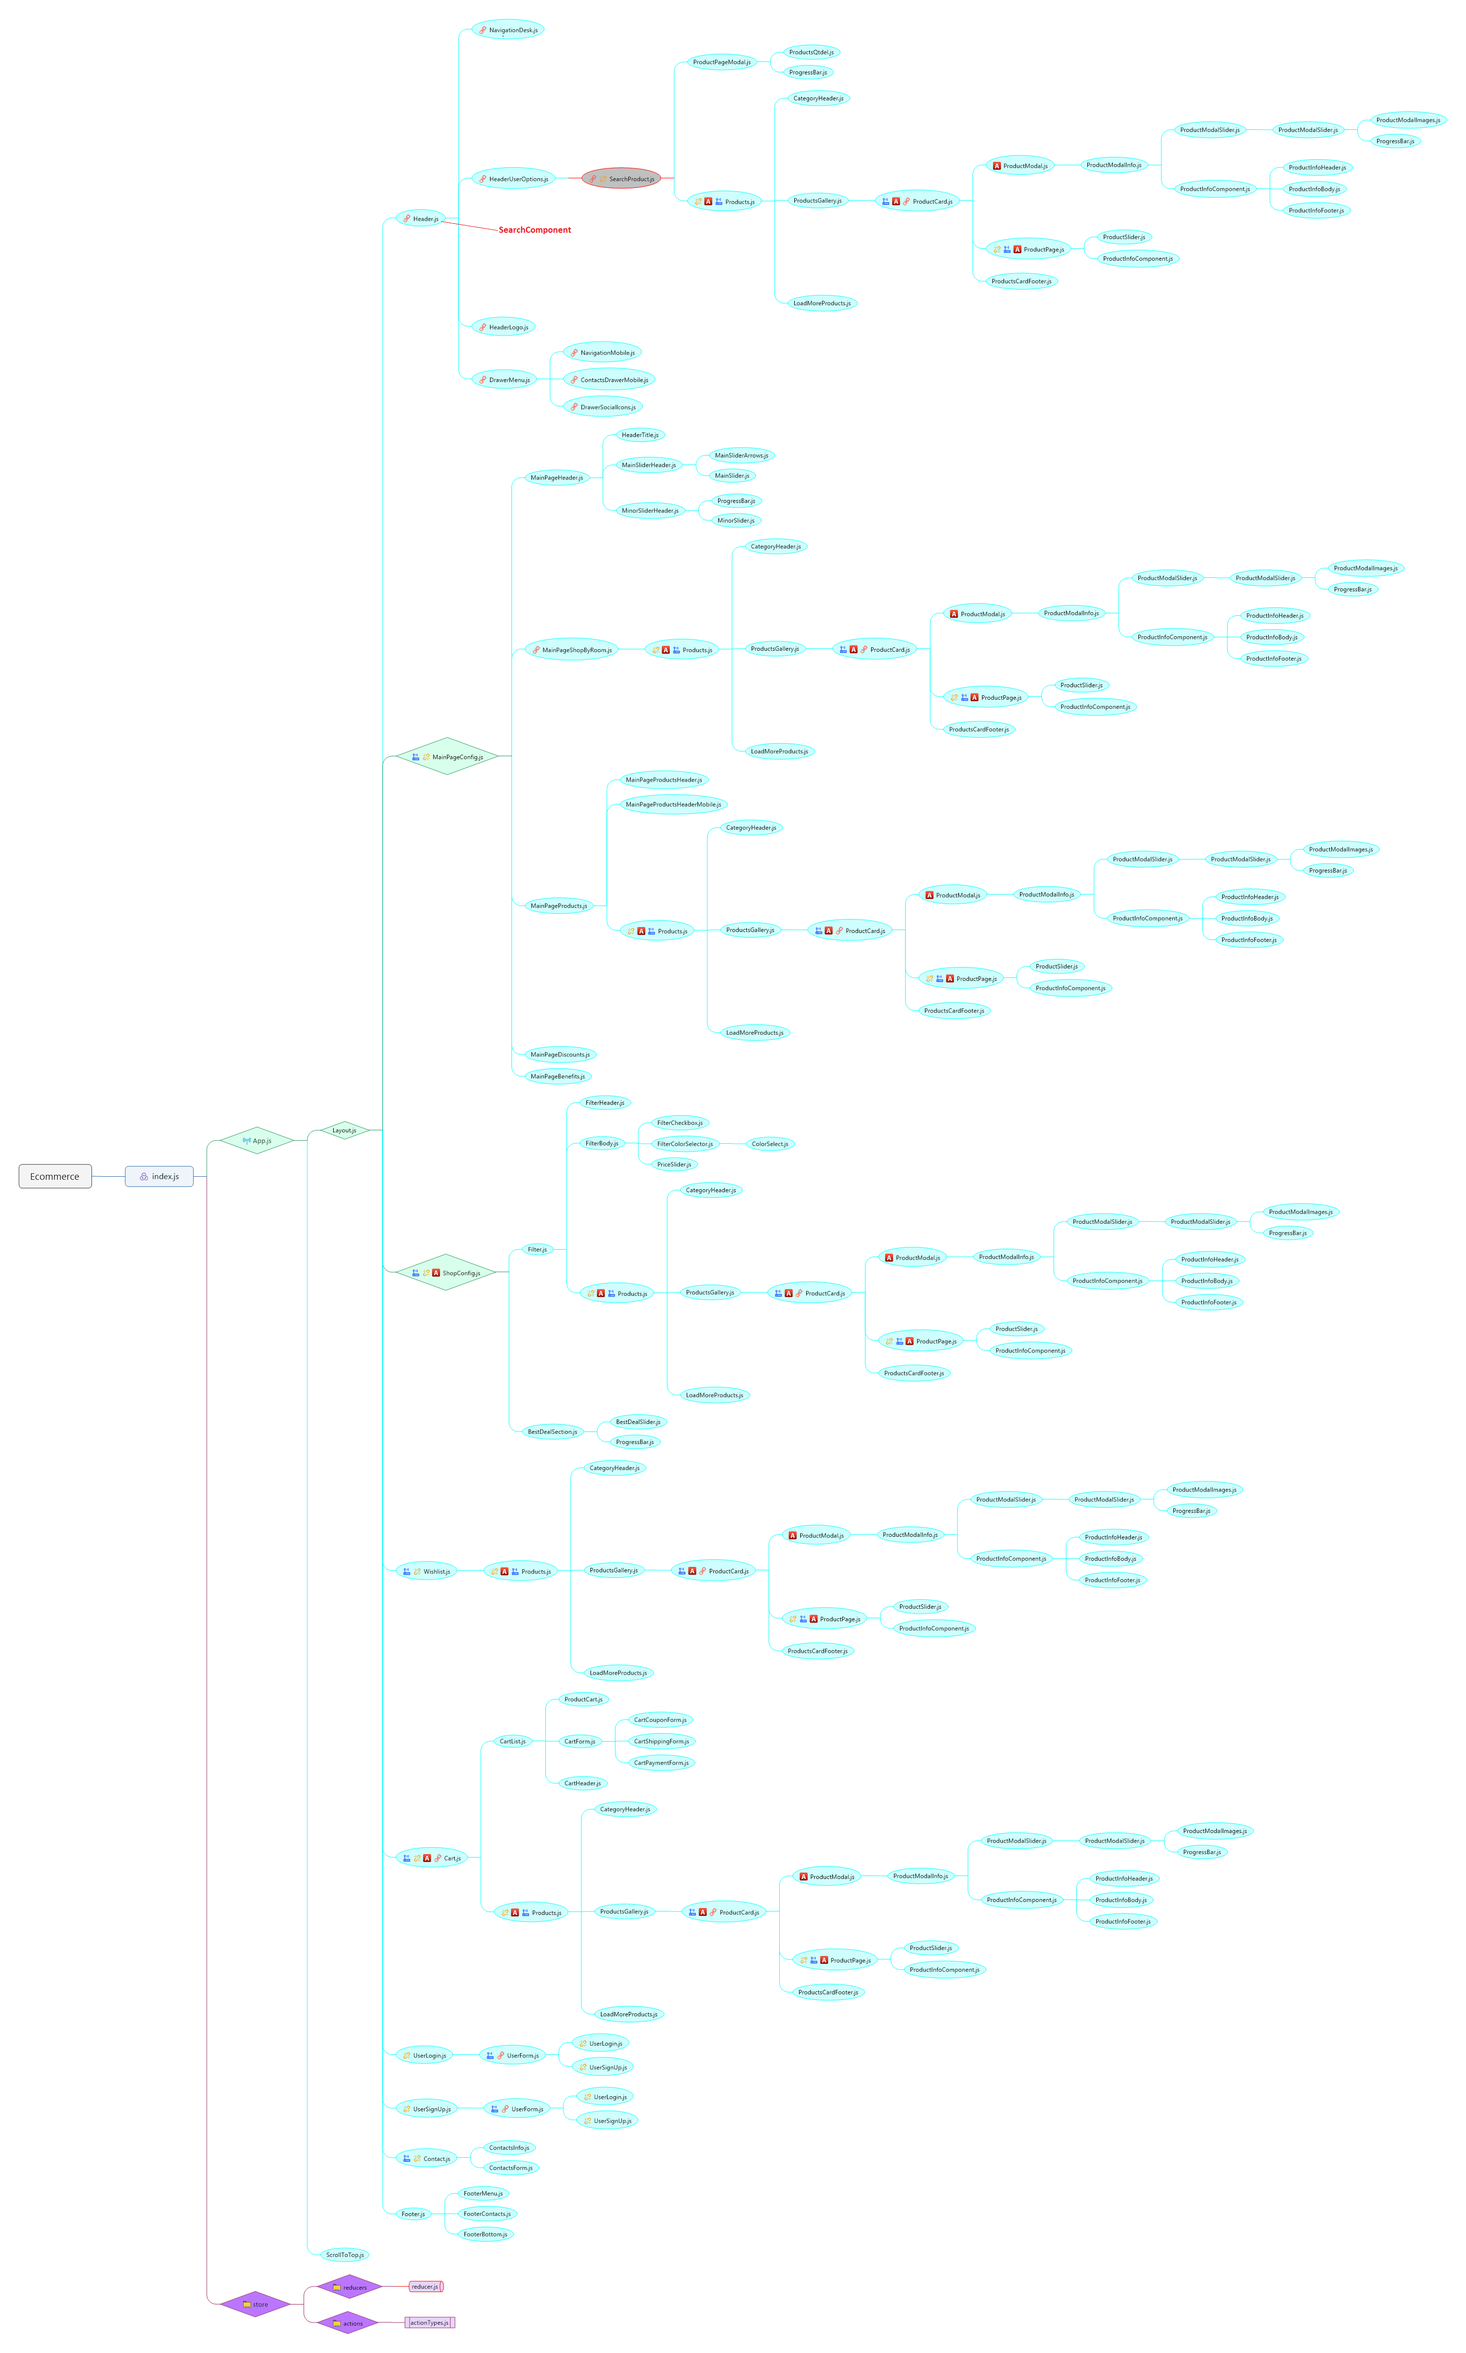
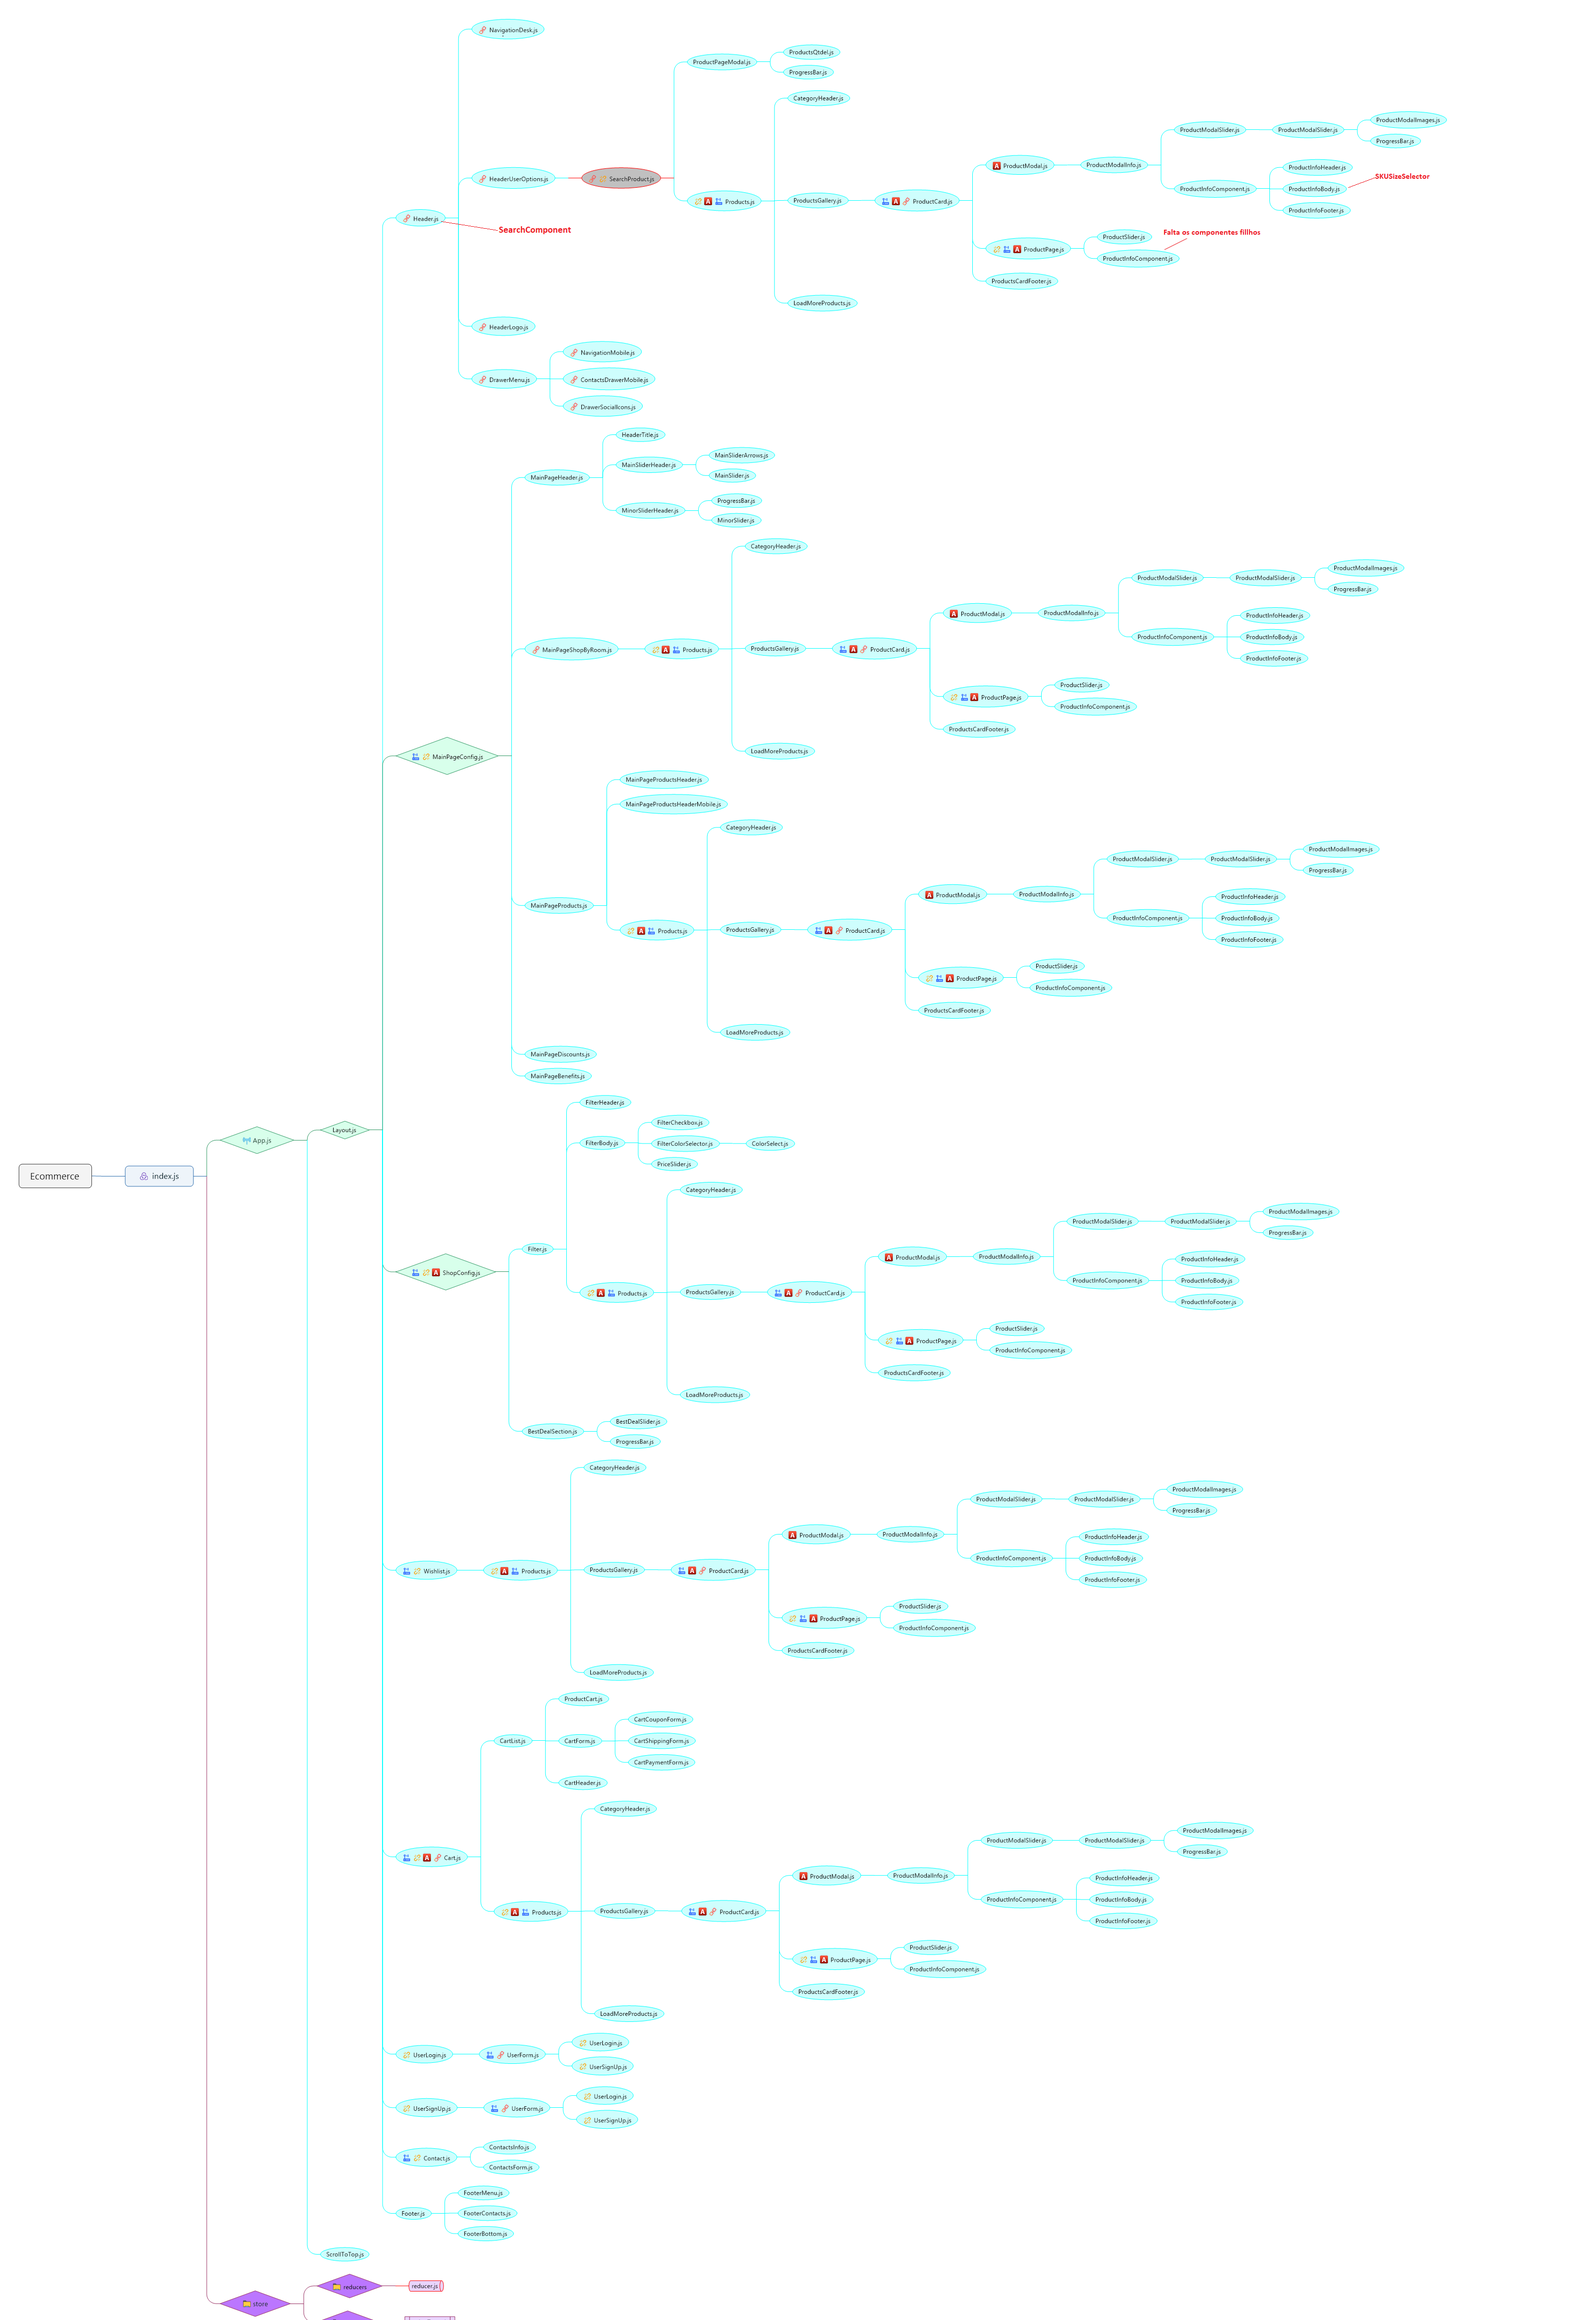
feat(productInfoBody): restructure sku selectors

diff --git a/src/components/Shop/ProductPage/ProductInfoComponent/ProductInfoBody/ProductInfoBody.js b/src/components/Shop/ProductPage/ProductInfoComponent/ProductInfoBody/ProductInfoBody.js
@@ -7,12 +7,12 @@ import { FontAwesomeIcon } from '@fortawesome/react-fontawesome'
 import ColorSelect from 'components/Shared/UI/ColorSelect/ColorSelect'
 import ProductsQtde from 'components/Shared/UI/ProductsQtde/ProductsQtde'
 import ProductQtdeMobile from 'components/Shared/UI/ProductQtdeMobile/ProductQtdeMobile'
+import SKUSizeSelector from "./SKUSizeSelector/SKUSizeSelector"
 
 
 const ProductInfoBody = props => {
    const {
       product,
-      modalStyle,
       cart,
       wish,
       onWishlistStateCB,
@@ -152,30 +152,17 @@ const ProductInfoBody = props => {
       <>
          {/* Estes blocos são sku selectors, um para tamanho e outro para cores. Extrair isso em um componente e dividir os selectors em um componente para cada tipo de sku */}
          <div className={classes.Product_details_container}>
-            <div>
-               <p>Size</p>
-               <select ref={selectRef} onChange={e => setSizeHandler(e.target.value)}>
-                  <option value="100x100">100x100 cm</option>
-                  <option value="200x200">200x200 cm</option>
-                  <option value="300x300">300x300 cm</option>
-               </select>
-            </div>
-            <div
-               className={classes.ProductPage_colors}
-               style={{ width: modalStyle.colorWidth }}
-            >
-               <p>Color</p>
-               <ColorSelect
-                  selectedColor={productCartDetails.color}
-                  colors={product.colors}
-                  selectColorHandlerCallback={(color) => selectColorHandler(color)}
-                  isFilter={false}
-               />
-            </div>
+            <SKUSizeSelector selectRef={selectRef} setSizeHandlerCB={setSizeHandler} />
+            <ColorSelect
+               selectedColor={productCartDetails.color}
+               colors={product.colors}
+               selectColorHandlerCallback={(color) => selectColorHandler(color)}
+               isFilter={false}
+               title={'Color'}
+            />
          </div>
          <div
             className={classes.Product_wishlist_container}
-            style={{ width: modalStyle.wishWidth }}
          >
             <ProductsQtde
                startQtde={productCartDetails.qtde}

diff --git a/src/components/Shared/UI/ColorSelect/ColorSelect.module.css b/src/components/Shared/UI/ColorSelect/ColorSelect.module.css
@@ -1,17 +1,37 @@
-.Color_select_container {
+@media (max-width: 768px) {
+    .Color-SKUSelector--wrapper {
+        width: 50%;
+    }
+}
+
+@media (max-width: 480px) {
+    .Color-SKUSelector--wrapper>div {
+        margin-left: 0;
+        width: 40%;
+        justify-content: space-between;
+    }
+}
+
+@media (max-width: 360px) {
+    .Color-SKUSelector--wrapper>div {
+        width: 80%;
+    }
+}
+
+.Color-bullets--wrapper {
     display: flex;
     flex-wrap: wrap;
-    
+
     margin-left: -5px;
 }
 
 @media (max-width: 480px) {
-    .Color_select_container {
+    .Color-bullets--wrapper {
         margin-left: 20%;
     }
 }
 
-.Color_select_container > div {
+.Color-bullets--wrapper>div {
     display: flex;
     justify-content: center;
     align-items: center;
@@ -27,11 +47,11 @@
     -o-border-radius: 50%;
 }
 
-.Color_select_container > div:hover {
+.Color-bullets--wrapper>div:hover {
     border: 2px solid black;
 }
 
-.Color_select_container > div > span {
+.Color-bullets--wrapper>div>span {
     width: 18px;
     height: 18px;
 
@@ -43,24 +63,24 @@
 }
 
 @media (max-width: 768px) {
-    .Color_select_container > div {
+    .Color-bullets--wrapper>div {
         width: 35px;
         height: 35px;
     }
 
-    .Color_select_container > div > span {
+    .Color-bullets--wrapper>div>span {
         width: 22px;
         height: 22px;
     }
 }
 
 @media (max-width: 480px) {
-    .Color_select_container > div {
+    .Color-bullets--wrapper>div {
         width: 40px;
         height: 40px;
     }
 
-    .Color_select_container > div > span {
+    .Color-bullets--wrapper>div>span {
         width: 26px;
         height: 26px;
     }

diff --git a/src/components/Shared/UI/ColorSelect/ColorSelect.js b/src/components/Shared/UI/ColorSelect/ColorSelect.js
@@ -10,7 +10,8 @@ const ColorSelect = props => {
       colors,
       selectedColor,
       selectColorHandlerCallback,
-      isFilter
+      isFilter,
+      title
    } = props
 
    const { updateColor } = useContext(UpdateProductsListContext)
@@ -68,21 +69,24 @@ const ColorSelect = props => {
 
 
    return (
-      <div className={classes.Color_select_container} id="colors-selector-bullets">
-         {
-            colors.map((color, i) => {
-               return <div 
-                  key={color+'-'+i}
-                  style={{ border: '1px solid black' }}
-                  onClick={(e) => selectColorHandler(e, color)}
-               >
-                  <span
-                     style={{ backgroundColor: color, opacity: 0.4 }}
+      <div className={classes['Color-SKUSelector--wrapper']}>
+         { title ? <p>Color</p> : null }
+         <div className={classes['Color-bullets--wrapper']} id="colors-selector-bullets">
+            {
+               colors.map((color, i) => {
+                  return <div 
+                     key={color+'-'+i}
+                     style={{ border: '1px solid black' }}
+                     onClick={(e) => selectColorHandler(e, color)}
                   >
-                  </span>
-               </div>
-            })
-         }
+                     <span
+                        style={{ backgroundColor: color, opacity: 0.4 }}
+                     >
+                     </span>
+                  </div>
+               })
+            }
+         </div>
       </div>
    )
 }

diff --git a/src/components/Shop/ProductPage/ProductInfoComponent/ProductInfoBody/ProductInfoBody.module.css b/src/components/Shop/ProductPage/ProductInfoComponent/ProductInfoBody/ProductInfoBody.module.css
@@ -45,45 +45,6 @@
    }
 }
 
-.Product_details_container select {
-   border: 0;
-   border-bottom: 1px solid #dee2e6;
-   margin-top: 8px;
-   width: 100%;
-   color: grey;
-   cursor: pointer;
-}
-
-@media (max-width: 480px) {
-   .Product_details_container select {
-      margin-top: 0;
-      width: 40%;
-   }
-}
-
-.Product_details_container select:focus {
-   outline: none;
-}
-@media (max-width: 768px) {
-   .ProductPage_colors {
-      width: 50%;
-   }
-}
-
-@media (max-width: 480px) {
-   .ProductPage_colors>div {
-      margin-left: 0;
-      width: 40%;
-      justify-content: space-between;
-   }
-}
-
-@media (max-width: 360px) {
-   .ProductPage_colors>div {
-      width: 80%;
-   }
-}
-
 .Product_wishlist_container {
    display: flex;
    justify-content: space-between;

diff --git a/src/components/Shop/ProductPage/ProductInfoComponent/ProductInfoComponent.js b/src/components/Shop/ProductPage/ProductInfoComponent/ProductInfoComponent.js
@@ -16,8 +16,8 @@ import ProductInfoHeader from './ProductInfoHeader/ProductInfoHeader'
 const modalStyle = {
    specificDisplay: null,
    containerMargin: null,
-   wishWidth: null,
-   colorWidth: null,
+   // wishWidth: null,
+   // colorWidth: null,
 }
 
 const ProductInfoComponent = props => {
@@ -33,8 +33,8 @@ const ProductInfoComponent = props => {
    if (modal) {
       modalStyle.specificDisplay = 'none'
       modalStyle.containerMargin = '0'
-      modalStyle.wishWidth = '90%'
-      modalStyle.colorWidth = '50%'
+      // modalStyle.wishWidth = '90%'
+      // modalStyle.colorWidth = '50%'
    }
 
    return (

diff --git a/src/components/Shop/ProductPage/ProductInfoComponent/ProductInfoBody/SKUSizeSelector/SKUSizeSelector.js b/src/components/Shop/ProductPage/ProductInfoComponent/ProductInfoBody/SKUSizeSelector/SKUSizeSelector.js
@@ -1,0 +1,22 @@
+import React from 'react'
+import classes from './SKUSizeSelector.module.css'
+
+const SKUSizeSelector = (props) => {
+   const {
+      selectRef,
+      setSizeHandlerCB
+   } = props
+
+   return (
+      <div className={classes['SKUSelector--container']}>
+         <p>Size</p>
+         <select ref={selectRef} onChange={e => setSizeHandlerCB(e.target.value)}>
+            <option value="100x100">100x100 cm</option>
+            <option value="200x200">200x200 cm</option>
+            <option value="300x300">300x300 cm</option>
+         </select>
+      </div>
+   )
+}
+
+export default SKUSizeSelector

diff --git a/src/components/Shop/ProductPage/ProductInfoComponent/ProductInfoBody/SKUSizeSelector/SKUSizeSelector.module.css b/src/components/Shop/ProductPage/ProductInfoComponent/ProductInfoBody/SKUSizeSelector/SKUSizeSelector.module.css
@@ -1,0 +1,19 @@
+.SKUSelector--container select {
+   border: 0;
+   border-bottom: 1px solid #dee2e6;
+   margin-top: 8px;
+   width: 100%;
+   color: grey;
+   cursor: pointer;
+}
+
+@media (max-width: 480px) {
+   .SKUSelector--container select {
+      margin-top: 0;
+      width: 40%;
+   }
+}
+
+.SKUSelector--container select:focus {
+   outline: none;
+}

diff --git a/src/components/Shop/Filter/FilterColorSelector/FilterColorSelector.js b/src/components/Shop/Filter/FilterColorSelector/FilterColorSelector.js
@@ -33,7 +33,6 @@ const FilterColorSelector = () => {
             <label htmlFor="all-colors-input">All available colors</label>
          </div>
          <ColorSelect
-            title={'COLOR'}
             colors={['red', 'yellow', 'blue', 'purple', 'green']}
             isFilter={true}
          />

diff --git a/src/components/Shop/ProductModal/ProductModalInfo/ProductModalInfo.module.css b/src/components/Shop/ProductModal/ProductModalInfo/ProductModalInfo.module.css
@@ -32,3 +32,11 @@
       display: none;
    }
 }
+
+.Product_page_modal_container :global(.ColorSelect_Color-SKUSelector--wrapper__1Ik90) {
+   width: 50%;
+}
+
+.Product_page_modal_container :global(.ProductInfoBody_Product_wishlist_container__YEDAu) {
+   width: 90%;
+}
